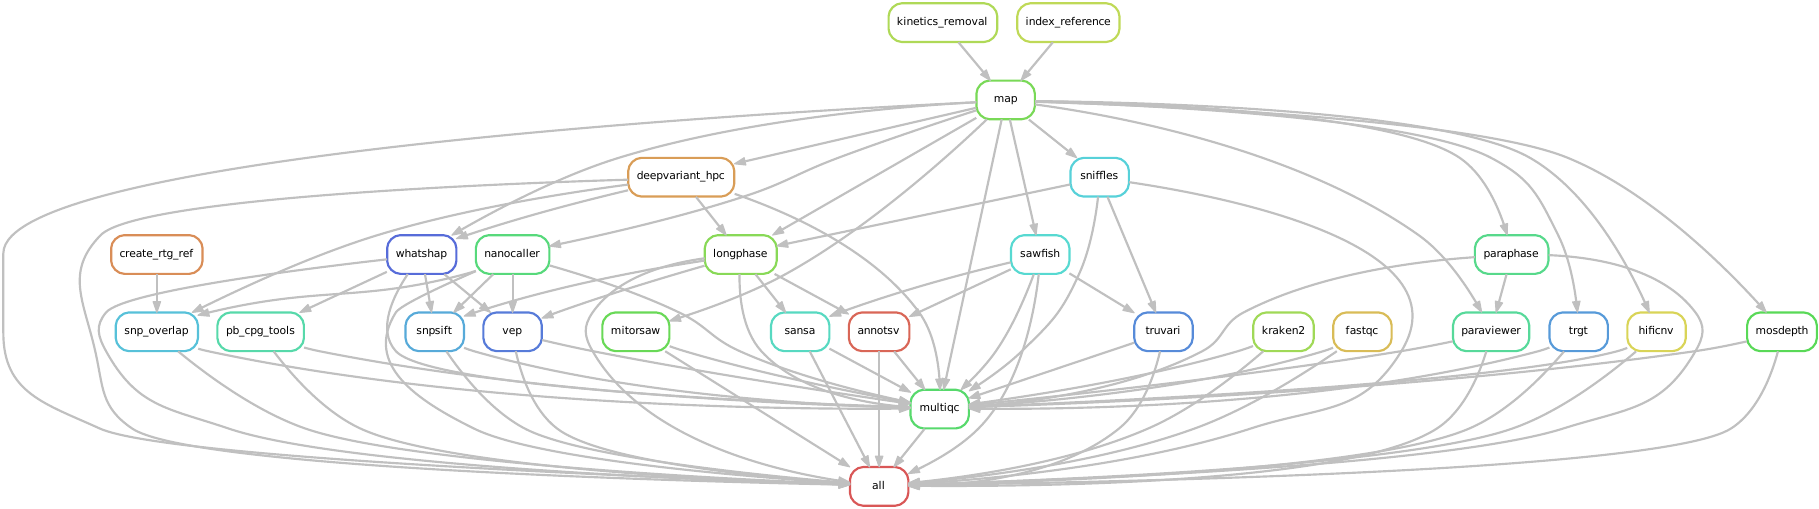
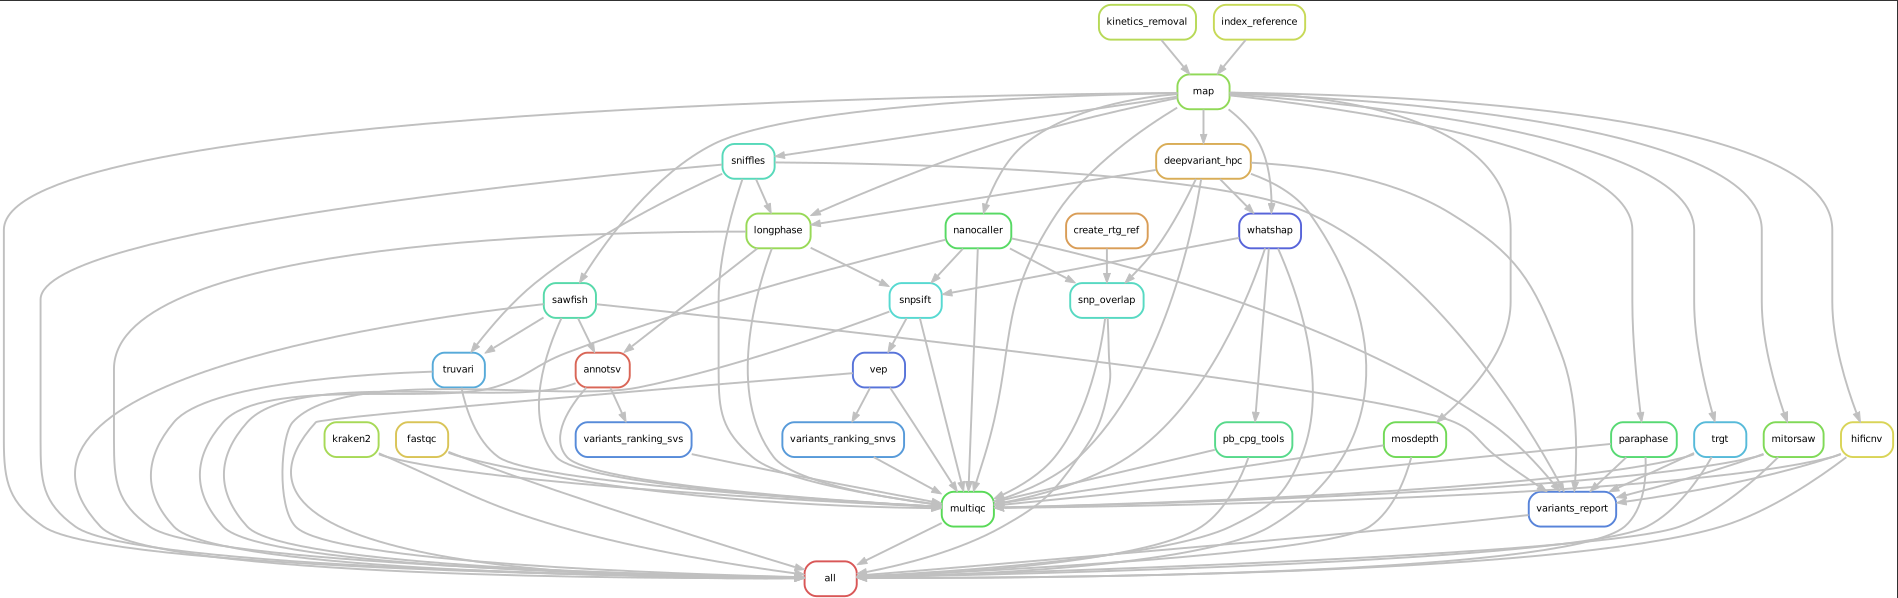
kimi,claude,chatgpt and mistral based scoring improvements

diff --git a/scripts/score_variants.py b/scripts/score_variants.py
@@ -55,6 +55,14 @@ NONCODING_REL = 0.15   # gene relevance of lncRNA/other non-coding transcripts w
 PSEUDOGENE_REL = 0.10
 CODING_NO_PHENO_REL = 0.6   # protein-coding gene with no GENE_PHENO flag from VEP
 MASK_FACTOR = 0.5      # confidence x this inside a --mask-bed region (segdups, low mappability, ...)
+PROBLEM_GENE_FACTOR = 0.5   # confidence x this in repeat-rich / paralogous gene families
+CLUSTER_FACTOR = 0.7        # confidence x this for a variant inside a dense cluster of candidates
+# calls in these families are dominated by mapping artefacts (D4Z4, kringle IV, mucin VNTRs, ...)
+ARTIFACT_GENE_RE = re.compile(r"^(DUX4.*|LPA|ZAN|MUC\d+[A-Z]?|NBPF\d.*|KIR\d.*|HLA-.*|OR\d+[A-Z]+\d+.*|"
+                              r"PRAMEF\d.*|GOLGA6L\d.*|TBC1D3.*|USP17L.*|FRG2.*)$")
+# real disease genes with close paralogs/pseudogenes: not penalised, but confirm (e.g. paraphase)
+PARALOG_GENES = {"SMN1", "SMN2", "CYP21A2", "CYP2D6", "GBA", "GBA1", "STRC", "PMS2", "NCF1", "HBA1",
+                 "HBA2", "IKBKG", "PKD1", "SBDS", "CHEK2", "OTOA"}
 PRIMARY_RE = re.compile(r"^(chr)?([1-9]|1[0-9]|2[0-2]|X)$")
 KEEP_CSQ = ("SYMBOL", "Gene", "Feature", "BIOTYPE", "Consequence", "IMPACT", "HGVSc",
             "HGVSp", "CLIN_SIG", "SIFT", "PolyPhen", "MANE_SELECT", "Existing_variation",
@@ -200,25 +208,44 @@ def clinvar_class(clin_sig):
 
 
 def pick_csq(csq, ix, alleles):
-    """Most severe transcript for this allele (tie-break: MANE Select, canonical, coding)."""
+    """Transcript for this allele, VEP-style: MANE Select / canonical protein-coding first; a
+    non-canonical protein-coding transcript only if it is more severe; NMD, retained-intron and
+    non-coding transcripts only if nothing else overlaps the allele."""
     ia, iimp, imane = ix.get("Allele", -1), ix.get("IMPACT", -1), ix.get("MANE_SELECT", -1)
     ican, ibio = ix.get("CANONICAL", -1), ix.get("BIOTYPE", -1)
 
     def g(vals, i):
         return vals[i] if 0 <= i < len(vals) else ""
 
-    best, best_key = None, None
+    ents = []
     for entry in csq.split(","):
         vals = entry.split("|")
         if g(vals, ia) not in alleles:
             continue
-        key = (IMPACT_RANK.get(g(vals, iimp), -1), bool(g(vals, imane)),
-               g(vals, ican) == "YES", g(vals, ibio) == "protein_coding")
-        if best_key is None or key > best_key:
-            best, best_key = vals, key
-    if best is None:
+        coding = g(vals, ibio) == "protein_coding"
+        t1 = bool(g(vals, imane)) or (g(vals, ican) == "YES" and coding)
+        ents.append((IMPACT_RANK.get(g(vals, iimp), -1), t1, coding, vals))
+    if not ents:
         return None
+    t1s = [e for e in ents if e[1]]
+    cods = [e for e in ents if e[2]]
+    best_t1 = max(t1s, key=lambda e: (e[0], bool(g(e[3], imane)))) if t1s else None
+    if best_t1 and best_t1[0] >= IMPACT_RANK["MODERATE"]:
+        pick = best_t1
+    elif cods:
+        best_c = max(cods, key=lambda e: (e[0], e[1]))
+        pick = best_c if (best_t1 is None or best_c[0] > best_t1[0]) else best_t1
+    else:
+        pick = max(ents, key=lambda e: (e[0], e[1]))
+    worst = max(ents, key=lambda e: e[0])
+    best = pick[3]
     out = {k: g(best, ix.get(k, -1)) for k in KEEP_CSQ}
+    out["other_tx"] = ""
+    out["non_canon"] = not pick[1]
+    if worst[0] > pick[0] and worst[0] >= IMPACT_RANK["MODERATE"]:
+        w = worst[3]
+        out["other_tx"] = (f"{g(w, iimp)} {g(w, ix.get('Consequence', -1))} on "
+                           f"{g(w, ix.get('Feature', -1))} ({g(w, ibio)})")
     freq = to_float(g(best, ix.get("MAX_AF", -1)))
     if freq is None:
         fv = [to_float(g(best, ix.get(k, -1))) for k in FREQ_FALLBACK]
@@ -314,6 +341,14 @@ def load_caller(path, label, a, fasta, stats, annot):
                 v = (d.get("VAF") or d.get("VF") or "").split(",")
                 call.vaf = to_float(v[i]) if len(v) > i else None
             call.dp = int(d["DP"]) if d.get("DP", ".").isdigit() else None
+            alt_n = ad[i + 1] if ad and len(ad) > i + 1 else None
+            if call.status == "PASS":
+                if call.dp is not None and call.dp < a.min_dp:
+                    call.status = "low_dp"
+                elif alt_n is not None and alt_n < a.min_alt_reads:
+                    call.status = "low_alt_reads"
+                elif not call.hom and call.vaf is not None and call.vaf < a.min_vaf:
+                    call.status = "low_vaf"
             call.alt_f = adf[i + 1] if adf and len(adf) > i + 1 else None
             call.alt_r = adr[i + 1] if adr and len(adr) > i + 1 else None
             ps = d.get("PS", ".")
@@ -434,6 +469,28 @@ def pair_status(A, B, order):
     return "unphased"
 
 
+def flag_clusters(items, window, min_n):
+    """Dense groups of candidates (clustered indels/SNVs) are typical of repeat/mapping artefacts."""
+    if min_n <= 0:
+        return 0
+    by_chrom = defaultdict(list)
+    for it in items:
+        by_chrom[it["row"]["chrom"]].append((it["row"]["pos"], it))
+    n = 0
+    for lst in by_chrom.values():
+        lst.sort(key=lambda x: x[0])
+        pos = [p for p, _ in lst]
+        for p, it in lst:
+            near = bisect.bisect_right(pos, p + window) - bisect.bisect_left(pos, p - window)
+            if near >= min_n:
+                it["clustered"] = True
+                it["score"] *= CLUSTER_FACTOR
+                it["why"].append(f"{near - 1} other candidate variants within {window} bp "
+                                 "(repeat/mapping artefact?)")
+                n += 1
+    return n
+
+
 def compound_het(items, order):
     by_gene = defaultdict(list)
     for it in items:
@@ -459,7 +516,8 @@ def compound_het(items, order):
             if label == "trans":
                 partners = sorted(loc for s, loc in stat[id(it)] if s == "trans")[:3]
                 it["why"].append("compound-het in trans with " + ",".join(partners))
-                it["score"] *= COMPHET_TRANS_BONUS
+                if not it.get("clustered"):
+                    it["score"] *= COMPHET_TRANS_BONUS
                 n_trans += 1
             elif label == "unphased":
                 it["why"].append("2+ rare variants in gene (phase unknown)")
@@ -476,13 +534,22 @@ def main():
     ap.add_argument("--output", required=True, help="shortlist TSV")
     ap.add_argument("--output-all", help="optional TSV with every scored variant")
     ap.add_argument("--top-n", type=int, default=100)
-    ap.add_argument("--full-credit-dp", type=int, default=30,
+    ap.add_argument("--full-credit-dp", type=int, default=20,
                     help="depth at which the depth term reaches 1.0 (default 20)")
     ap.add_argument("--min-impact", default="LOW", choices=list(IMPACT_RANK),
                     help="skip records whose most severe consequence is below this "
                          "(ClinVar P/LP always kept). Default LOW")
     ap.add_argument("--max-af", type=float, default=RARITY_COMMON,
                     help="skip records with MAX_AF at/above this (default 0.05; rarity is 0 above it anyway)")
+    ap.add_argument("--min-dp", type=int, default=8, help="calls below this depth do not count as PASS (8; 0 = off)")
+    ap.add_argument("--min-alt-reads", type=int, default=4,
+                    help="calls with fewer alt reads do not count as PASS (4; 0 = off)")
+    ap.add_argument("--min-vaf", type=float, default=0.2,
+                    help="het calls below this VAF do not count as PASS (0.2; 0 = off)")
+    ap.add_argument("--cluster-window", type=int, default=2000,
+                    help="window (bp) for the dense-cluster check (2000)")
+    ap.add_argument("--cluster-min", type=int, default=3,
+                    help="candidates within the window (incl. itself) that make a cluster (3; 0 = off)")
     ap.add_argument("--include-contigs", default="",
                     help="comma list of extra contigs to keep, e.g. chrY,chrM (default: chr1-22 and chrX only)")
     ap.add_argument("--mask-bed", action="append", default=[], metavar="NAME=PATH",
@@ -533,6 +600,13 @@ def main():
         single = len(callers) > 1 and len(passed) == 1
         if single:
             conf *= SINGLE_CALLER_FACTOR
+        sym = csq.get("SYMBOL", "")
+        prob_note = ""
+        if ARTIFACT_GENE_RE.match(sym):
+            conf *= PROBLEM_GENE_FACTOR
+            prob_note = f"{sym}: repeat-rich/paralogous gene family, calls are often mapping artefacts"
+        elif sym in PARALOG_GENES:
+            prob_note = f"{sym} has close paralogs/pseudogenes: confirm (e.g. paraphase)"
         mhits = mask_hits(masks, chrom, pos) if masks else []
         if mhits:
             conf *= MASK_FACTOR
@@ -547,6 +621,12 @@ def main():
             why.append(f"ClinVar {cv}")
         if rel_note:
             why.append(rel_note)
+        if csq.get("non_canon") and csq.get("IMPACT") in ("HIGH", "MODERATE"):
+            why.append("effect only on a non-canonical transcript")
+        if csq.get("other_tx"):
+            why.append("more severe only on another transcript: " + csq["other_tx"])
+        if prob_note:
+            why.append(prob_note)
         why.append("absent from gnomAD/1000G" if af is None else f"max AF {af:.2g}")
         if "COSV" in csq.get("Existing_variation", ""):
             why.append("COSMIC-listed (somatic hotspot? check sample type/mosaicism)")
@@ -600,6 +680,7 @@ def main():
                       "gene": csq.get("Gene") or csq.get("SYMBOL", ""),
                       "score": imp * rel * rar * conf})
 
+    n_clustered = flag_clusters(items, a.cluster_window, a.cluster_min)
     n_trans = compound_het(items, order)
     for it in items:
         it["row"]["reasons"] = "; ".join(it["why"])
@@ -632,7 +713,8 @@ def main():
     print("\n=== summary ===", file=sys.stderr)
     for (lab, what), n in sorted(stats.items()):
         print(f"[{lab}] {what}: {n:,}", file=sys.stderr)
-    print(f"candidate sites scored: {len(rows):,}; compound-het (trans) variants: {n_trans}",
+    print(f"candidate sites scored: {len(rows):,}; compound-het (trans) variants: {n_trans}; "
+          f"down-weighted as dense clusters: {n_clustered}",
           file=sys.stderr)
     print("shortlist by impact:", dict(Counter(r["impact"] for r in shortlist)), file=sys.stderr)
     print("shortlist by caller:", dict(Counter(r["called_by"] for r in shortlist)), file=sys.stderr)
